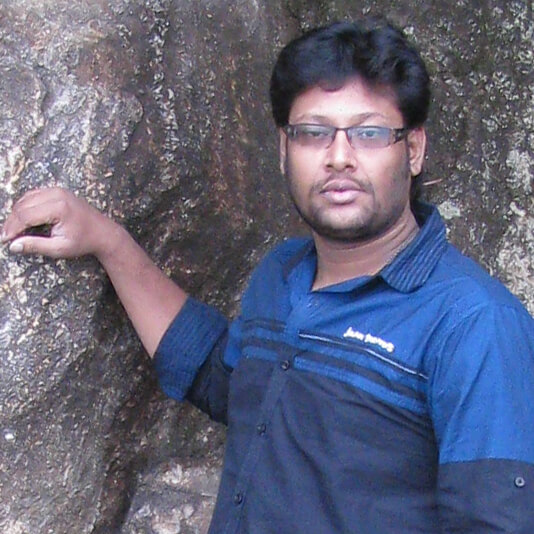
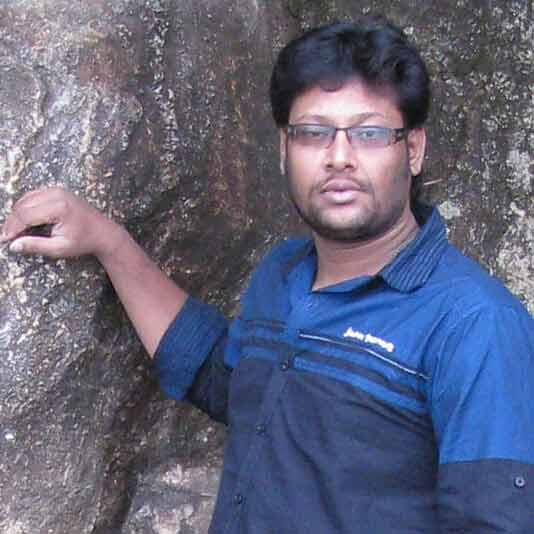
compress images for website performance

Changed region(s): [[0.9888, 0.5693, 1.0, 0.5993]]

diff --git a/index.html b/index.html
@@ -1,1 +1,1 @@
-<!DOCTYPE html><html lang="en"><head> <meta charset="utf-8"> <meta name="viewport" content="width=device-width, initial-scale=1.0"> <meta name="description" content=""> <meta name="author" content=""> <title>Infratab Banglore Pvt Ltd</title> <link rel="shortcut icon" href="img/favicon.png"> <link href="css/bootstrap.min.css" rel="stylesheet"> <link rel="stylesheet" href="css/style.min.css"> <script src="js/modernizr.min.js"></script> </head><body data-spy="scroll" data-target="#navbar" data-offset="70"><div id="navbar" class="navbar navbar-inverse"><div class="fixed-container"> <div class="navbar-header"><button type="button" class="navbar-toggle" data-toggle="collapse" data-target=".navbar-collapse"><span class="icon-bar"></span><span class="icon-bar"></span><span class="icon-bar"></span></button><a class="navbar-brand" href="#home"><img src="img/infratab-logo.png" height="40" alt="Infratab Logo"/></a></div><div class="collapse navbar-collapse"><ul class="nav navbar-nav mid"><li><a href="#team"><span>We <span>♥</span> Javascript</span></a></li><li><a href="#careers"><span>Careers</span></a></li><li><a href="#news"><span>News</span></a></li><li><a href="#contact"><span>Contact</span></a></li></ul><ul class="nav navbar-nav topNav pull-right"><li><a href="https://gitter.im/Infratab/talk" target="_blank"><span>talk</span></a></a></li><li><a class="active"><span >in</span></a></li><li>|</li><li><a href="http://www.infratab.com" target="_blank"><span>us</span></a></li></ul></div></div></div><div id="home" class="section welcome"> <ul class="topNav"> <li><a href="https://gitter.im/Infratab/talk" target="_blank"><span>talk</span></a></li><li><a class="active"><span>in</span></a></li>| <li><a href="http://www.infratab.com" target="_blank"><span>us</span></a></li></ul> <div class="Vmiddle"> <div class="row"> <img src="img/logoVz.png" class="mainLogo" alt="Infratab Logo"/> </div><div class="row"> <ul class="menu"> <li><a class="scroll-down" href="#team">We <span>♥</span> Javascript</a></li><li><a class="scroll-down" href="#careers">Careers</a></li><li><a class="scroll-down" href="#news">News</a></li><li><a class="scroll-down" href="#contact">Contact</a></li></ul> </div><div class="row"> <h3><a href="http://www.infratab.com" target="_blank"><span>Freshtime</span>™</a> solutions include smart tags and software for those handling temperature sensitive products</h3> </div></div><a class="scroll-down arrowDown" href="#team" style=""><i class="icon-angle-down"></i></a> </div><div id="team" class="section team"> <div class="Vmiddle"> <div class="col-md-12 col-sm-12 col-xs-12" id="bottom"> <ul class="empList"> <li><a class="empImage" data-designation="" data-toggle="tooltip" data-placement="bottom" title="Muralidhar Duvvuri"><img src="img/team/pic1.jpg" alt=""></a></li><li><a class="empImage" data-designation="frontend-dev app-dev dev-ops" data-toggle="tooltip" data-placement="bottom" title="Thirupathi Rajendran"><img src="img/team/pic2.jpg" alt=""></a></li><li><a class="empImage" data-designation="ui-dev" data-toggle="tooltip" data-placement="bottom" title="Vasanth Kumar"><img src="img/team/pic3.jpg" alt=""></a></li><li><a class="empImage" data-designation="frontend-dev" data-toggle="tooltip" data-placement="bottom" title="Ilango Rajagopal"><img src="img/team/pic4.jpg" alt=""></a></li><li><a class="empImage" data-designation="frontend-dev" data-toggle="tooltip" data-placement="bottom" title="Swathi PV"><img src="img/team/pic5.jpg" alt=""></a></li><li><a class="empImage" data-designation="app-dev" data-toggle="tooltip" data-placement="bottom" title="Ritheesh Vedire"><img src="img/team/pic6.jpg" alt=""></a></li><li><a class="empImage" data-designation="ui-dev" data-toggle="tooltip" data-placement="bottom" title="Priyanka Kumari"><img src="img/team/pic7.jpg" alt=""></a></li><li><a class="empImage" data-designation="" data-toggle="tooltip" data-placement="bottom" title="Alekhya Vendra"><img src="img/team/pic8.jpg" alt=""></a></li><li><a class="empImage" data-designation="frontend-dev" data-toggle="tooltip" data-placement="bottom" title="Prasanth Karri"><img src="img/team/pic9.jpg" alt=""></a></li></ul> </div><div class="row circle designation-container"><div class="col-md-offset-1 col-md-2 col-sm-4 col-xs-12 designation"> <ul class="icon ui-dev"> <li data-toggle="popover" data-style="alternate" data-placement="top" data-html="true" data-trigger="manual" title="UI<br/> Developer" data-content=" <ul> <li>Photoshop CS6</li><li>Ilustrator CS6</li><li>Design Principles</li><li>HTML5</li><li>CSS3/LESS</li><li>UI Frameworks</li></ul> "><div class="designation-circle"><a></a></div></li></ul></div><div class="col-md-2 col-sm-4 col-xs-12 designation"> <ul class="icon frontend-dev"> <li data-toggle="popover" data-style="alternate" data-placement="top" data-html="true" data-trigger="manual" title="Frontend <br/>Developer" data-content=" <ul> <li>HTML5/LESS</li><li>UI Framework</li><li>HandlebarsJS</li><li>BackboneJS</li><li>MarionetteJS</li><li>MochaJS</li></ul> "><div class="designation-circle"><a></a></div></li></ul> </div><!-- <div class="col-md-2 col-sm-4 col-xs-12 designation"> <ul class="icon js-dev"> <li data-toggle="popover" data-style="alternate" data-placement="top" data-html="true" data-trigger="manual" title="Javascript<br/> Developer" data-content=" <ul> <li>D3JS</li><li>BackboneJS</li><li>MarionetteJS</li><li>HandlebarsJS</li><li>MochaJS</li><li>CasperJS</li></ul> "><div class="designation-circle"><a></a></div></li></ul> </div>--><div class="col-md-2 col-sm-4 col-xs-12 designation"> <ul class="icon app-dev"> <li data-toggle="popover" data-style="alternate" data-placement="top" data-html="true" data-trigger="manual" title="Applications <br/>Developer" data-content=" <ul> <li>NodeJS</li><li>ExpressJS</li><li>Nginx</li><li>MongoDB</li><li>Redis</li><li>MSSQL</li></ul> "><div class="designation-circle"><a></a></div></li></ul> </div><div class="col-md-2 col-sm-4 col-xs-12 designation"> <ul class="icon dev-ops"> <li data-toggle="popover" data-style="alternate" data-placement="top" data-html="true" data-trigger="manual" title="DevOps<br/><br/>" data-content=" <ul> <li>Ubuntu Server Administration</li><li>LXC</li><li>Git</li><li>Ansible</li></ul> "><div class="designation-circle last-margin"><a></a></div></li></ul> </div></div></div></div><div id="careers" class="section careers"> <div class="Vmiddle"> <div class="row"><h3>We're Hiring!</h3></div><div class="row"><p class="info">We’re big enough to make a difference, and small enough for you to do the same. <br/> If you are ambitious, aspirational and equally capable and opinionated. Come join us!</p></div><div class="row row-eq-height"><div class="col-md-3 col-sm-3 col-xs-6"><div class="col-lg-8 col-lg-offset-2 col-md-10 col-sm-12 col-xs-12"><span><p>Web <br/> Designer <br/> Opening</p><a href="https://hasjob.co/at/infratab.in" target="_blank">Read more</a></span></div></div><div class="col-md-3 col-sm-3 col-xs-6"><div class="col-lg-8 col-lg-offset-2 col-md-10 col-sm-12 col-xs-12"><span><p>UI <br/> Developer <br/> Opening</p><a href="https://hasjob.co/view/has47" target="_blank">Read more</a></span></div></div><div class="col-md-3 col-sm-3 col-xs-6"><div class="col-lg-8 col-lg-offset-2 col-md-10 col-sm-12 col-xs-12"><span><p>Frontend <br/> Engineer <br/> Opening</p><a href="https://hasjob.co/view/stl8k" target="_blank">Read more</a></span></div></div><div class="col-md-3 col-sm-3 col-xs-6"><div class="col-lg-8 col-lg-offset-2 col-md-10 col-sm-12 col-xs-12"><span><p>Production<br/> Engineer<br/> Opening</p><a href="https://hasjob.co/at/infratab.in" target="_blank">Read more</a></span></div></div></div><div class="row"><div class="col-md-3 col-sm-3 col-xs-6 pull-right"><div class="col-lg-7 col-lg-pull-1 col-md-10 col-sm-12"><a href="https://hasjob.co/at/infratab.in" target="_blank" class="btn-block">See All</a></div></div></div></div></div><div id="news" class="section"> <div class="Vmiddle"><section id="cd-timeline" class="cd-container"><a class="all" href="http://www.rfidjournal.com/articles/view?12401/2" target="_blank"><div class="cd-timeline-block active"><div class="cd-timeline-img"><span>6<br>Nov</span></div><div class="cd-timeline-content"><h2>Infratab introduces smartphone sensor tags for monitoring perishables</h2><p>Infratab, a provider of sensors and software to monitor, track and communicate a perishable's condition throughout the supply chain...</p><span class="cd-date">2014</span></div></div></a><a class="all" href="http://www.prnewswire.com/news-releases/infratab-unwraps-smartphone-sensor-tags-at-pack-expo-281294011.html" target="_blank"><div class="cd-timeline-block active"><div class="cd-timeline-img"><span>3<br>Nov</span></div><div class="cd-timeline-content"><h2>Infratab unwraps smartphone sensor tags at Pack Expo</h2><img src="img/timeline-img2_400_360.jpg"><span class="cd-date">2014</span></div></div></a><a class="all" href="http://www.packagingeurope.com/Packaging-Europe-News/60900/Infratab-to-Unwrap-Smartphone-Sensor-Tags.html" target="_blank"><div class="cd-timeline-block cd-timeline-small"><div class="cd-timeline-img"><span>31<br>Oct</span></div><div class="cd-timeline-content"><h2>Infratab to Unwrap Smartphone Sensor Tags</h2><p>Infratab, the award-winning innovator behind Freshtime™ - a line of freshness sensors and software for all things perishable...</p><span class="cd-date">2014</span></div></div></a><a class="all" href="http://www.foodproductiondaily.com/Innovations/Infratab-shelf-life-sensors-software-freshness" target="_blank"><div class="cd-timeline-block cd-timeline-small"><div class="cd-timeline-img"><span>23<br>Oct</span></div><div class="cd-timeline-content"><h2>How fresh is it?<br>Smart sensors quantify stages of shelf life</h2><img src="img/timeline-img1_400_360.jpg"><span class="cd-date">2014</span></div></div></a><a class="all" href="http://seedstock.com/2014/03/07/california-startup-leverages-rfid-technology-to-keep-food-fresh/" target="_blank"><div class="cd-timeline-block cd-timeline-small"><div class="cd-timeline-img"><span>19<br>Mar</span></div><div class="cd-timeline-content"><h2>California Startup Leverages RFID Technology to Keep Food Fresh</h2><p>In a world filled with contaminated food outbreaks, low-quality fresh produce at the grocery stores and an emerging class ...</p><span class="cd-date">2014</span></div></div></a><a class="all" href="http://ecopreneurist.com/2014/03/19/rfid-technology-startup-tackles-perishables-freshness/" target="_blank"><div class="cd-timeline-block cd-timeline-small"><div class="cd-timeline-img"><span>19<br>Mar</span></div><div class="cd-timeline-content"><h2>RFID Technology Startup Tackles Perishables Freshness</h2><img src="img/timeline-img3_400_360.jpg"><span class="cd-date">2014</span></div></div></a><a class="all" href="http://www.rfidjournal.com/articles/view?9162/" target="_blank"><div class="cd-timeline-block cd-timeline-small"><div class="cd-timeline-img"><span>6<br>Jan</span></div><div class="cd-timeline-content"><h2>Researchers Seek to Reduce Wastage for First-Strike Rations</h2><p>A Florida group is studying ways to track the temperatures of food rations traversing the U.S. military's supply chain...</p><span class="cd-date">2012</span></div></div></a><a class="all" href="http://www.thepacker.com/fruit-vegetable-news/Computerworld-honors-Infratab-grape-project-125042404.html" target="_blank"><div class="cd-timeline-block cd-timeline-small"><div class="cd-timeline-img"><span>7<br>May</span></div><div class="cd-timeline-content"><h2>Computerworld honors Infratab grape project</h2><p>Computerworld has honored Oxnard, Calif.-based Infratab for a pilot project with grower-shipper Pandol that tracks the shelf...</p><span class="cd-date">2011</span></div></div></a><a class="all" href="https://www.rfidjournal.com/purchase-access?type=Article&id=8104&r=/articles/view?8104/2" target="_blank"><div class="cd-timeline-block cd-timeline-small"><div class="cd-timeline-img"><span>3<br>Jan</span></div><div class="cd-timeline-content"><h2>A Guide to Sensor-Equipped RFID Tags</h2><img src="img/timeline-img4_400_360.jpg"><span class="cd-date">2011</span></div></div></a><a class="all" href="http://blog.barcoding.com/2009/04/intermec-infratab-improve-perishable-good-distribution/" target="_blank"><div class="cd-timeline-block cd-timeline-small"><div class="cd-timeline-img"><span>28<br>Apr</span></div><div class="cd-timeline-content"><h2>Intermec & Infratab Improve Perishable Good Distribution</h2><p>Customers can now easily monitor food temperature, shelf life, and freshness of perishable goods with Freshtime, from Infratab.</p><span class="cd-date">2009</span></div></div></a><a class="all" href="http://www.foodquality.com/details/article/816001/Cool_Technologies.html?tzcheck=1" target="_blank"><div class="cd-timeline-block cd-timeline-small"><div class="cd-timeline-img"><span>1<br>Sep</span></div><div class="cd-timeline-content"><h2>Logistical and monitoring solutions can facilitate better cold chain management</h2><p>Most of us can recount opening a recently purchased food product, only to find it spoiled. This firsthand experience underscores...</p><span class="cd-date">2007</span></div></div></a><a class="all" href="http://www-03.ibm.com/software/businesscasestudies/no/no/corp?synkey=B394525S19670F18" target="_blank"><div class="cd-timeline-block cd-timeline-small"><div class="cd-timeline-img"><span>26<br>Mar</span></div><div class="cd-timeline-content"><h2>DHL breaks new ground with RFID-based real-time tracking of sensitive shipments</h2><p>The DHL Innovation Initiative is a key part of how we are transforming ourselves as a business. It shows how good ideas...</p><span class="cd-date">2007</span></div></div></a><a class="all" href="http://www.nxp.com/documents/literature/75015874.pdf" target="_blank"><div class="cd-timeline-block cd-timeline-small"><div class="cd-timeline-img"><span>1<br>Jan</span></div><div class="cd-timeline-content"><h2>NXP Identification News - on the move</h2><p>Our RFID Reference Design Center (RDC) in Gratkorn, Austria has just celebrated its first birthday.It may only be a year old ...</p><span class="cd-date">2007</span></div></div></a></section> </div></div><div id="contact" class="section contactUs"> <div class="Vmiddle"> <div class="row"><div class="col-lg-8 col-md-7 col-sm-12 col-xs-12 mapCanvas" id="map_canvas"></div><div class="col-lg-4 col-md-5 col-sm-12 col-xs-12 paddNone"><div class="col-lg-12 col-md-12 col-sm-12 col-xs-12"><address><h3>Infratab Bangalore Pvt. Ltd</h3>#206, Money ChambersK.H. RoadBangalore-560027Karnataka, IndiaPhone: <a href="tel:+918064543666">(+91)80 6454 3666</a>Email: <a href="mailto:info@infratab.in">info@infratab.in</a></address><address><a href="http://infratab.com" target="_blank"><span><div class="badge">HQ</div></span><span><h3>Infratab,Inc </h3>4347 Raytheon RoadOxnard, CaliforniaUSA-93033www.infratab.com</span></a></address></div></div></div><div class="footer"> <p> This website is available under <a href="https://github.com/Infratab/Website/blob/master/LICENSE" target="_blank">Copyleft <span class="copy-left">&copy;</span></a><br/>The code is available at <a href="https://github.com/Infratab/Website" target="_blank"><span>GitHub</span></a></p></div></div></div><script src="https://maps.googleapis.com/maps/api/js"></script> <script src="js/jquery-1.9.1.min.js"></script> <script src="js/jquery.mixitup.min.js"></script><script src="js/bootstrap.min.js"></script> <script src="js/init.min.js"></script> <script>$(".icon li").popover('show'); $(document).ready(function(){/*$(".cd-timeline-img").click(function(){$(this).parent().removeClass('cd-timeline-small');$(".cd-timeline-block.active").removeClass('active').addClass('cd-timeline-small').fadeIn();$(this).parent().addClass('active');}); */$(window).scroll(function(){$(".cd-timeline-block.cd-timeline-small").removeClass('cd-timeline-small').addClass('active').fadeIn();});}); </script></body></html>
+<!DOCTYPE html><html lang="en"><head> <meta charset="utf-8"> <meta name="viewport" content="width=device-width, initial-scale=1.0"> <meta name="description" content=""> <meta name="author" content=""> <title>Infratab Banglore Pvt Ltd</title> <link rel="shortcut icon" href="img/favicon.png"> <link href="css/bootstrap.min.css" rel="stylesheet"> <link rel="stylesheet" href="css/style.min.css"> </head><body data-spy="scroll" data-target="#navbar" data-offset="70"><div id="navbar" class="navbar navbar-inverse"><div class="fixed-container"> <div class="navbar-header"><button type="button" class="navbar-toggle" data-toggle="collapse" data-target=".navbar-collapse"><span class="icon-bar"></span><span class="icon-bar"></span><span class="icon-bar"></span></button><a class="navbar-brand" href="#home"><img src="img/infratab-logo.png" height="40" alt="Infratab Logo"/></a></div><div class="collapse navbar-collapse"><ul class="nav navbar-nav mid"><li><a href="#team"><span>We <span>♥</span> Javascript</span></a></li><li><a href="#careers"><span>Careers</span></a></li><li><a href="#news"><span>News</span></a></li><li><a href="#contact"><span>Contact</span></a></li></ul><ul class="nav navbar-nav topNav pull-right"><li><a href="https://gitter.im/Infratab/talk" target="_blank"><span>talk</span></a></a></li><li><a class="active"><span >in</span></a></li><li>|</li><li><a href="http://www.infratab.com" target="_blank"><span>us</span></a></li></ul></div></div></div><div id="home" class="section welcome"> <ul class="topNav"> <li><a href="https://gitter.im/Infratab/talk" target="_blank"><span>talk</span></a></li><li><a class="active"><span>in</span></a></li>| <li><a href="http://www.infratab.com" target="_blank"><span>us</span></a></li></ul> <div class="Vmiddle"> <div class="row"> <img src="img/logoVz.png" class="mainLogo" alt="Infratab Logo"/> </div><div class="row"> <ul class="menu"> <li><a class="scroll-down" href="#team">We <span>♥</span> Javascript</a></li><li><a class="scroll-down" href="#careers">Careers</a></li><li><a class="scroll-down" href="#news">News</a></li><li><a class="scroll-down" href="#contact">Contact</a></li></ul> </div><div class="row"> <h3><a href="http://www.infratab.com" target="_blank"><span>Freshtime</span>™</a> solutions include smart tags and software for those handling temperature sensitive products</h3> </div></div><a class="scroll-down arrowDown" href="#team" style=""><i class="icon-angle-down"></i></a> </div><div id="team" class="section team"> <div class="Vmiddle"> <div class="col-md-12 col-sm-12 col-xs-12" id="bottom"> <ul class="empList"> <li><a class="empImage" data-designation="" data-toggle="tooltip" data-placement="bottom" title="Muralidhar Duvvuri"><img src="img/team/pic1.jpg" alt=""></a></li><li><a class="empImage" data-designation="frontend-dev app-dev dev-ops" data-toggle="tooltip" data-placement="bottom" title="Thirupathi Rajendran"><img src="img/team/pic2.jpg" alt=""></a></li><li><a class="empImage" data-designation="ui-dev" data-toggle="tooltip" data-placement="bottom" title="Vasanth Kumar"><img src="img/team/pic3.jpg" alt=""></a></li><li><a class="empImage" data-designation="frontend-dev" data-toggle="tooltip" data-placement="bottom" title="Ilango Rajagopal"><img src="img/team/pic4.jpg" alt=""></a></li><li><a class="empImage" data-designation="frontend-dev" data-toggle="tooltip" data-placement="bottom" title="Swathi PV"><img src="img/team/pic5.jpg" alt=""></a></li><li><a class="empImage" data-designation="app-dev" data-toggle="tooltip" data-placement="bottom" title="Ritheesh Vedire"><img src="img/team/pic6.jpg" alt=""></a></li><li><a class="empImage" data-designation="ui-dev" data-toggle="tooltip" data-placement="bottom" title="Priyanka Kumari"><img src="img/team/pic7.jpg" alt=""></a></li><li><a class="empImage" data-designation="" data-toggle="tooltip" data-placement="bottom" title="Alekhya Vendra"><img src="img/team/pic8.jpg" alt=""></a></li><li><a class="empImage" data-designation="frontend-dev" data-toggle="tooltip" data-placement="bottom" title="Prasanth Karri"><img src="img/team/pic9.jpg" alt=""></a></li></ul> </div><div class="row circle designation-container"><div class="col-md-offset-1 col-md-2 col-sm-4 col-xs-12 designation"> <ul class="icon ui-dev"> <li data-toggle="popover" data-style="alternate" data-placement="top" data-html="true" data-trigger="manual" title="UI<br/> Developer" data-content=" <ul> <li>Photoshop CS6</li><li>Ilustrator CS6</li><li>Design Principles</li><li>HTML5</li><li>CSS3/LESS</li><li>UI Frameworks</li></ul> "><div class="designation-circle"><a></a></div></li></ul></div><div class="col-md-2 col-sm-4 col-xs-12 designation"> <ul class="icon frontend-dev"> <li data-toggle="popover" data-style="alternate" data-placement="top" data-html="true" data-trigger="manual" title="Frontend <br/>Developer" data-content=" <ul> <li>HTML5/LESS</li><li>UI Framework</li><li>HandlebarsJS</li><li>BackboneJS</li><li>MarionetteJS</li><li>MochaJS</li></ul> "><div class="designation-circle"><a></a></div></li></ul> </div><!-- <div class="col-md-2 col-sm-4 col-xs-12 designation"> <ul class="icon js-dev"> <li data-toggle="popover" data-style="alternate" data-placement="top" data-html="true" data-trigger="manual" title="Javascript<br/> Developer" data-content=" <ul> <li>D3JS</li><li>BackboneJS</li><li>MarionetteJS</li><li>HandlebarsJS</li><li>MochaJS</li><li>CasperJS</li></ul> "><div class="designation-circle"><a></a></div></li></ul> </div>--><div class="col-md-2 col-sm-4 col-xs-12 designation"> <ul class="icon app-dev"> <li data-toggle="popover" data-style="alternate" data-placement="top" data-html="true" data-trigger="manual" title="Applications <br/>Developer" data-content=" <ul> <li>NodeJS</li><li>ExpressJS</li><li>Nginx</li><li>MongoDB</li><li>Redis</li><li>MSSQL</li></ul> "><div class="designation-circle"><a></a></div></li></ul> </div><div class="col-md-2 col-sm-4 col-xs-12 designation"> <ul class="icon dev-ops"> <li data-toggle="popover" data-style="alternate" data-placement="top" data-html="true" data-trigger="manual" title="DevOps<br/><br/>" data-content=" <ul> <li>Ubuntu Server Administration</li><li>LXC</li><li>Git</li><li>Ansible</li></ul> "><div class="designation-circle last-margin"><a></a></div></li></ul> </div></div></div></div><div id="careers" class="section careers"> <div class="Vmiddle"> <div class="row"><h3>We're Hiring!</h3></div><div class="row"><p class="info">We’re big enough to make a difference, and small enough for you to do the same. <br/> If you are ambitious, aspirational and equally capable and opinionated. Come join us!</p></div><div class="row row-eq-height"><div class="col-md-3 col-sm-3 col-xs-6"><div class="col-lg-8 col-lg-offset-2 col-md-10 col-sm-12 col-xs-12"><span><p>Web <br/> Designer <br/> Opening</p><a href="https://hasjob.co/at/infratab.in" target="_blank">Read more</a></span></div></div><div class="col-md-3 col-sm-3 col-xs-6"><div class="col-lg-8 col-lg-offset-2 col-md-10 col-sm-12 col-xs-12"><span><p>UI <br/> Developer <br/> Opening</p><a href="https://hasjob.co/view/has47" target="_blank">Read more</a></span></div></div><div class="col-md-3 col-sm-3 col-xs-6"><div class="col-lg-8 col-lg-offset-2 col-md-10 col-sm-12 col-xs-12"><span><p>Frontend <br/> Engineer <br/> Opening</p><a href="https://hasjob.co/view/stl8k" target="_blank">Read more</a></span></div></div><div class="col-md-3 col-sm-3 col-xs-6"><div class="col-lg-8 col-lg-offset-2 col-md-10 col-sm-12 col-xs-12"><span><p>Production<br/> Engineer<br/> Opening</p><a href="https://hasjob.co/at/infratab.in" target="_blank">Read more</a></span></div></div></div><div class="row"><div class="col-md-3 col-sm-3 col-xs-6 pull-right"><div class="col-lg-7 col-lg-pull-1 col-md-10 col-sm-12"><a href="https://hasjob.co/at/infratab.in" target="_blank" class="btn-block">See All</a></div></div></div></div></div><div id="news" class="section"> <div class="Vmiddle"><section id="cd-timeline" class="cd-container"><a class="all" href="http://www.rfidjournal.com/articles/view?12401/2" target="_blank"><div class="cd-timeline-block active"><div class="cd-timeline-img"><span>6<br>Nov</span></div><div class="cd-timeline-content"><h2>Infratab introduces smartphone sensor tags for monitoring perishables</h2><p>Infratab, a provider of sensors and software to monitor, track and communicate a perishable's condition throughout the supply chain...</p><span class="cd-date">2014</span></div></div></a><a class="all" href="http://www.prnewswire.com/news-releases/infratab-unwraps-smartphone-sensor-tags-at-pack-expo-281294011.html" target="_blank"><div class="cd-timeline-block active"><div class="cd-timeline-img"><span>3<br>Nov</span></div><div class="cd-timeline-content"><h2>Infratab unwraps smartphone sensor tags at Pack Expo</h2><img src="img/timeline-img2_400_360.jpg"><span class="cd-date">2014</span></div></div></a><a class="all" href="http://www.packagingeurope.com/Packaging-Europe-News/60900/Infratab-to-Unwrap-Smartphone-Sensor-Tags.html" target="_blank"><div class="cd-timeline-block cd-timeline-small"><div class="cd-timeline-img"><span>31<br>Oct</span></div><div class="cd-timeline-content"><h2>Infratab to Unwrap Smartphone Sensor Tags</h2><p>Infratab, the award-winning innovator behind Freshtime™ - a line of freshness sensors and software for all things perishable...</p><span class="cd-date">2014</span></div></div></a><a class="all" href="http://www.foodproductiondaily.com/Innovations/Infratab-shelf-life-sensors-software-freshness" target="_blank"><div class="cd-timeline-block cd-timeline-small"><div class="cd-timeline-img"><span>23<br>Oct</span></div><div class="cd-timeline-content"><h2>How fresh is it?<br>Smart sensors quantify stages of shelf life</h2><img src="img/timeline-img1_400_360.jpg"><span class="cd-date">2014</span></div></div></a><a class="all" href="http://seedstock.com/2014/03/07/california-startup-leverages-rfid-technology-to-keep-food-fresh/" target="_blank"><div class="cd-timeline-block cd-timeline-small"><div class="cd-timeline-img"><span>19<br>Mar</span></div><div class="cd-timeline-content"><h2>California Startup Leverages RFID Technology to Keep Food Fresh</h2><p>In a world filled with contaminated food outbreaks, low-quality fresh produce at the grocery stores and an emerging class ...</p><span class="cd-date">2014</span></div></div></a><a class="all" href="http://ecopreneurist.com/2014/03/19/rfid-technology-startup-tackles-perishables-freshness/" target="_blank"><div class="cd-timeline-block cd-timeline-small"><div class="cd-timeline-img"><span>19<br>Mar</span></div><div class="cd-timeline-content"><h2>RFID Technology Startup Tackles Perishables Freshness</h2><img src="img/timeline-img3_400_360.jpg"><span class="cd-date">2014</span></div></div></a><a class="all" href="http://www.rfidjournal.com/articles/view?9162/" target="_blank"><div class="cd-timeline-block cd-timeline-small"><div class="cd-timeline-img"><span>6<br>Jan</span></div><div class="cd-timeline-content"><h2>Researchers Seek to Reduce Wastage for First-Strike Rations</h2><p>A Florida group is studying ways to track the temperatures of food rations traversing the U.S. military's supply chain...</p><span class="cd-date">2012</span></div></div></a><a class="all" href="http://www.thepacker.com/fruit-vegetable-news/Computerworld-honors-Infratab-grape-project-125042404.html" target="_blank"><div class="cd-timeline-block cd-timeline-small"><div class="cd-timeline-img"><span>7<br>May</span></div><div class="cd-timeline-content"><h2>Computerworld honors Infratab grape project</h2><p>Computerworld has honored Oxnard, Calif.-based Infratab for a pilot project with grower-shipper Pandol that tracks the shelf...</p><span class="cd-date">2011</span></div></div></a><a class="all" href="https://www.rfidjournal.com/purchase-access?type=Article&id=8104&r=/articles/view?8104/2" target="_blank"><div class="cd-timeline-block cd-timeline-small"><div class="cd-timeline-img"><span>3<br>Jan</span></div><div class="cd-timeline-content"><h2>A Guide to Sensor-Equipped RFID Tags</h2><img src="img/timeline-img4_400_360.jpg"><span class="cd-date">2011</span></div></div></a><a class="all" href="http://blog.barcoding.com/2009/04/intermec-infratab-improve-perishable-good-distribution/" target="_blank"><div class="cd-timeline-block cd-timeline-small"><div class="cd-timeline-img"><span>28<br>Apr</span></div><div class="cd-timeline-content"><h2>Intermec & Infratab Improve Perishable Good Distribution</h2><p>Customers can now easily monitor food temperature, shelf life, and freshness of perishable goods with Freshtime, from Infratab.</p><span class="cd-date">2009</span></div></div></a><a class="all" href="http://www.foodquality.com/details/article/816001/Cool_Technologies.html?tzcheck=1" target="_blank"><div class="cd-timeline-block cd-timeline-small"><div class="cd-timeline-img"><span>1<br>Sep</span></div><div class="cd-timeline-content"><h2>Logistical and monitoring solutions can facilitate better cold chain management</h2><p>Most of us can recount opening a recently purchased food product, only to find it spoiled. This firsthand experience underscores...</p><span class="cd-date">2007</span></div></div></a><a class="all" href="http://www-03.ibm.com/software/businesscasestudies/no/no/corp?synkey=B394525S19670F18" target="_blank"><div class="cd-timeline-block cd-timeline-small"><div class="cd-timeline-img"><span>26<br>Mar</span></div><div class="cd-timeline-content"><h2>DHL breaks new ground with RFID-based real-time tracking of sensitive shipments</h2><p>The DHL Innovation Initiative is a key part of how we are transforming ourselves as a business. It shows how good ideas...</p><span class="cd-date">2007</span></div></div></a><a class="all" href="http://www.nxp.com/documents/literature/75015874.pdf" target="_blank"><div class="cd-timeline-block cd-timeline-small"><div class="cd-timeline-img"><span>1<br>Jan</span></div><div class="cd-timeline-content"><h2>NXP Identification News - on the move</h2><p>Our RFID Reference Design Center (RDC) in Gratkorn, Austria has just celebrated its first birthday.It may only be a year old ...</p><span class="cd-date">2007</span></div></div></a></section> </div></div><div id="contact" class="section contactUs"> <div class="Vmiddle"> <div class="row"><div class="col-lg-8 col-md-7 col-sm-12 col-xs-12 mapCanvas" id="map_canvas"></div><div class="col-lg-4 col-md-5 col-sm-12 col-xs-12 paddNone"><div class="col-lg-12 col-md-12 col-sm-12 col-xs-12"><address><h3>Infratab Bangalore Pvt. Ltd</h3>#206, Money ChambersK.H. RoadBangalore-560027Karnataka, IndiaPhone: <a href="tel:+918064543666">(+91)80 6454 3666</a>Email: <a href="mailto:info@infratab.in">info@infratab.in</a></address><address><a href="http://infratab.com" target="_blank"><span><div class="badge">HQ</div></span><span><h3>Infratab,Inc </h3>4347 Raytheon RoadOxnard, CaliforniaUSA-93033www.infratab.com</span></a></address></div></div></div><div class="footer"> <p> This website is available under <a href="https://github.com/Infratab/Website/blob/master/LICENSE" target="_blank">Copyleft <span class="copy-left">&copy;</span></a><br/>The code is available at <a href="https://github.com/Infratab/Website" target="_blank"><span>GitHub</span></a></p></div></div></div><script src="js/modernizr.min.js"></script> <script src="https://maps.googleapis.com/maps/api/js"></script> <script src="js/jquery-1.9.1.min.js"></script><script src="js/bootstrap.min.js"></script> <script src="js/init.min.js"></script> <script>$(".icon li").popover('show'); $(document).ready(function(){/*$(".cd-timeline-img").click(function(){$(this).parent().removeClass('cd-timeline-small');$(".cd-timeline-block.active").removeClass('active').addClass('cd-timeline-small').fadeIn();$(this).parent().addClass('active');}); */$(window).scroll(function(){$(".cd-timeline-block.cd-timeline-small").removeClass('cd-timeline-small').addClass('active').fadeIn();});}); </script></body></html>

diff --git a/index-original.html b/index-original.html
@@ -14,8 +14,7 @@
 
   	<!--Custom Stylesheet --> 
 	<link rel="stylesheet" href="css/style.min.css">
-  <!-- Lib Modernizr -->
-	<script src="js/modernizr.min.js"></script> 
+  
    
 </head>
 
@@ -526,9 +525,10 @@
 
     
     <!-- Placed at the end of the document so the pages load faster -->
+	<!-- Lib Modernizr -->
+	<script src="js/modernizr.min.js"></script> 
 	<script src="https://maps.googleapis.com/maps/api/js"></script>
     <script src="js/jquery-1.9.1.min.js"></script>
-    <script src="js/jquery.mixitup.min.js"></script>
 	<script src="js/bootstrap.min.js"></script>
     <script src="js/init.min.js"></script>	
 
